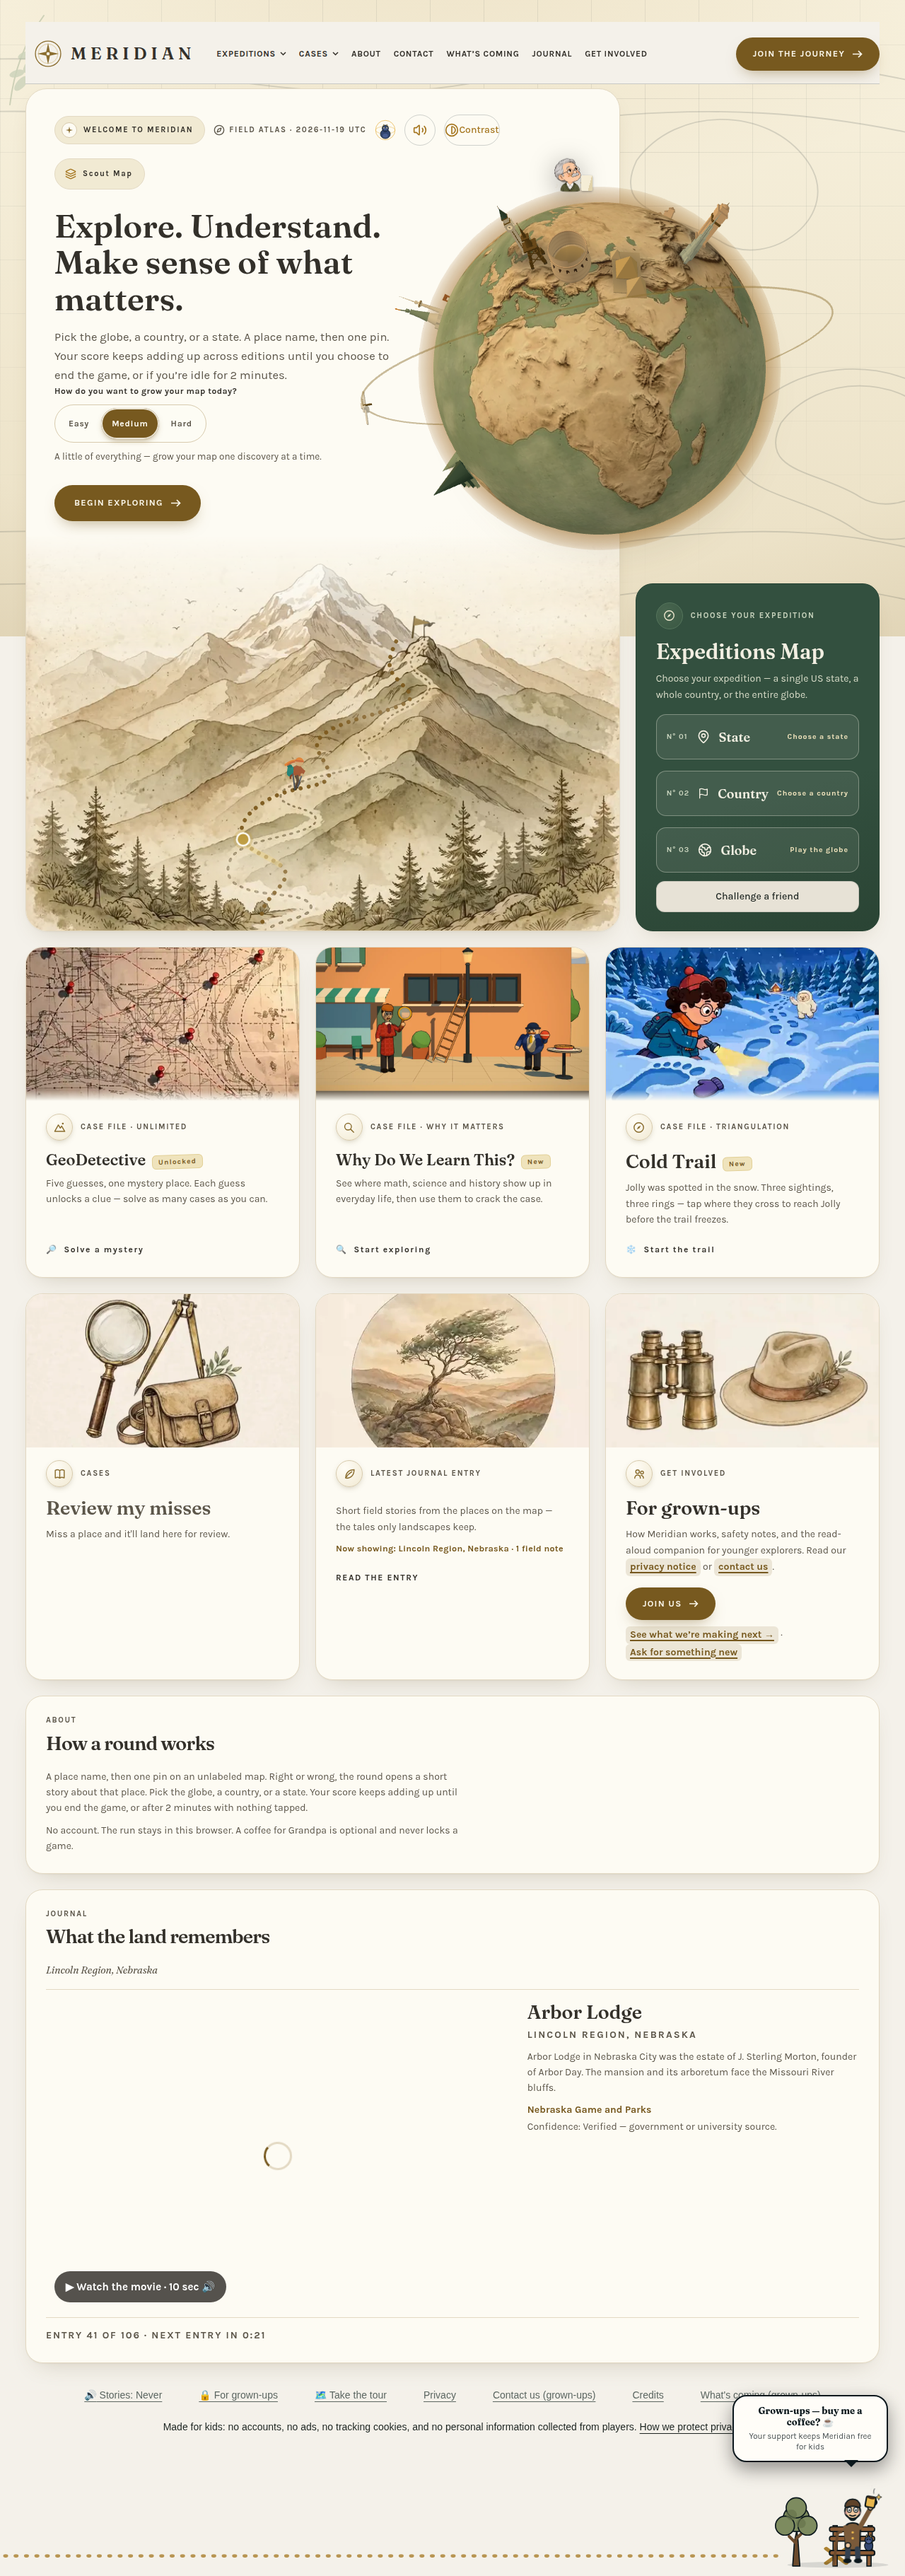
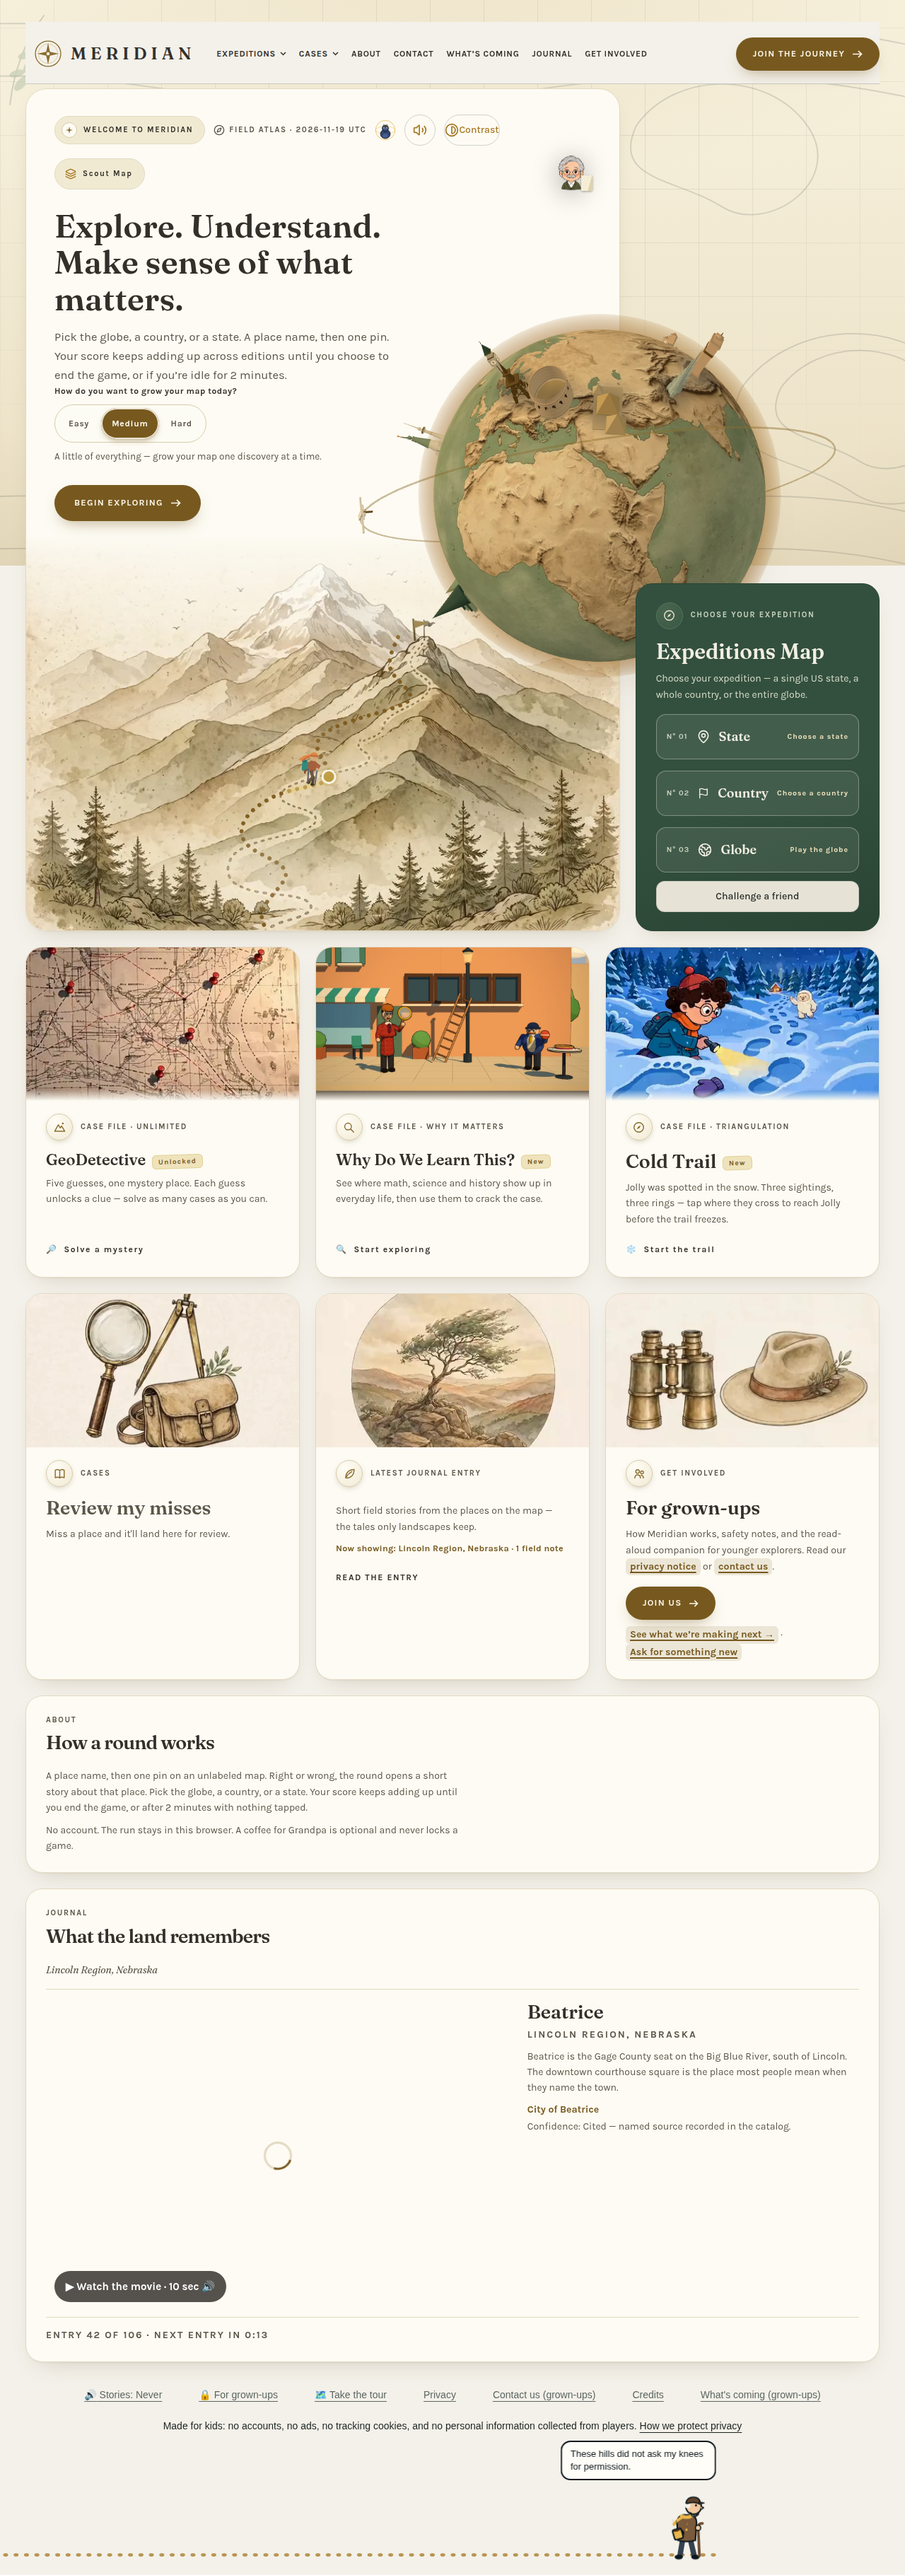
Move the desktop globe down so it clears Grandpa (addendum 10)

diff --git a/docs/mockups/landmark-globe-contract.md b/docs/mockups/landmark-globe-contract.md
@@ -110,3 +110,4 @@ Stage 2 production changes (owner rulings Nov 19 2026; layout decided by a three
 3. Desktop composition of the top section (src/components/home-v5.css) — owner ruling, Nov 19 2026 ("You need to fix desktop view"), decided by the same three-seat design pass and staged in the approved mock: with the card at content height, the rail's two components (globe zone + map card) travel as one group anchored to the hero's foot — @media (min-width: 1081px) { .home-v5 .hv5-rail { justify-content: flex-end; } }. The bento columns (2.24fr / minmax(260px, 0.92fr)), the globe zone (width: 100%; aspect-ratio: 1; margin: 0 0 -92px; its overlap onto the card unchanged) and the hero's proportions are unchanged; the card's bottom edge now shares the hero's baseline and the card sits beside the mountain scene. Measured in the approved mock at 1280px: hero 1192px tall, rail content 745px (globe zone 345px + card 492px − 92px overlap), card top at 700px in the rail, space under the card in the rail 0px (was 447px); the freed 447px sits above the globe zone, beside the hero's copy block. At 1878px: hero 1212px, card top 720px, space under the card 0px. The rule is scoped to min-width: 1081px so the <=1080px stacked layouts cannot move — re-measured identical (card 470px at 768px, 484px at 390px; copy-to-first-row gap 16px; mountain 462px / 256px, visible).
 4. Desktop globe size (src/components/home-v5.css) — owner ruling, Nov 19 2026 ("make the globe bigger and fill the void"), staged in the approved mock; supersedes item 3's globe-zone size and its "freed space above the globe" outcome (item 3's foot anchor is kept, as the guard that collects any remainder above the zone, never under the card): inside the same @media (min-width: 1081px) block, .home-v5 .hv5-globe-zone { width: 792px; flex: 0 0 auto; align-self: flex-end; } — the zone grows from the rail's 345px to 792px, sized so zone + card (492px) − the unchanged −92px overlap margin equals the hero's 1192px at the 1280px reference. The canvas is square (side = zone width), so the rendered disc grows ~205px → ~470px and the orbit ring ~290px → ~667px. The zone is wider than the rail column and right-aligns to the rail's edge: centred, its disc would cross the page's right edge at 1280px; right-aligned, the disc stays inside the page and bleeds left over the hero's empty right side. The bento columns, the hero's proportions, the card and the −92px overlap are unchanged. Measured in the approved mock at 1280px: zone 792×792px, void above the zone 0px (was 447px), space under the card 0px, card top in the rail 700px, horizontal overflow 0. At 1878px: zone 792px, the foot anchor collects the remaining 20px above the zone (hero 1212px vs 1192px of rail content), space under the card 0px, overflow 0. Scoped to min-width: 1081px; the <=1080px zone rules (220px / 200px, centred) are untouched — re-measured identical (zone 220px at 768px, 200px at 390px; card 470px / 484px; mountain 462px / 256px, visible).
 5. Colosseum restyle (the landmark model itself — in Stage 2 this lands in the production landmark models copied from this mockup): council spec, owner-adopted Nov 19 2026 after the original build read as a grey ring at page size. Scale 0.16 -> 0.25; colour stone -> sandstone; drawn-at (41.9, 13.5) -> (40.5, 15.0), widening the separation from Eiffel / Big Ben. Drum height 0.34 -> 0.46 units in warm sandstone with a strata-banded canvas texture (no drawn arches). Dark recessed arch insets as geometry: two rows of 16 arch shapes (0.062 x 0.115, colour #4a3421) standing just proud of the drum wall, all the way around. Stepped broken upper tier: three wall arcs of height 0.22 / 0.14 / 0.07 spanning 1.5 / 1.05 / 0.8 rad. Inner wall height 0.2 -> 0.3. Landmark totals after the restyle: 7,602 triangles (the Colosseum accounts for the +592 over the previous 7,010), largest single landmark still Sydney Opera House at 1,872, 51 draw calls — inside the per-landmark 5,000, total 40,000 and 60-call limits. Recognition test on the approved mock: passed 3 of 3 at full-page size (see 3.4).
+6. Desktop globe position — the mascot clearance rule (src/components/home-v5.css) — owner ruling, Nov 19 2026 ("move the globe since it is covering the mascot grandpa story teller"), staged in the approved mock. RULE: at every desktop width the globe — disc, halo and orbit ring — never covers the hero's mascot (Grandpa, the storyteller) or his speech bubble; both stay fully visible with clear space around them. This is also the council UX seat's hard line (the bleed must not enter the hero card's field where it covers hero content). Mechanism: inside the @media (min-width: 1081px) block, the globe zone's bottom margin grows from the base -92px to -272px; the map card is foot-anchored and does not move, so the zone drops 180px and the zone-to-card overlap grows by the same 180px. Nothing else moves: zone size (792px), card, hero proportions, bento ratio and the mountain are unchanged. Measured in the approved mock at 1280px: zone top 125px -> 305px; the disc clears the speech-bubble box by 30px and the avatar box by 192px; the orbit ring's true projected curve clears the bubble by 119px (the conservative bounding-circle test reads -68px and overstates the ring — the ring is an ellipse and most of its bounding circle is empty space); the fresnel halo clears the bubble by 13px. At 1878px: the disc clears the bubble by 50px and the ring curve by 138px. Rail fill after the move: rail content 1012px of the hero's 1192px — the 180px the move frees sits above the zone, beside the hero's copy block, where it reads as margin; space under the card 0px (the card's foot stays flush with the hero's foot); horizontal overflow 0 at both widths. Scoped to min-width: 1081px, so the <=1080px layouts cannot apply — verified at 390px, where the bubble box sits 740px above the zone (the small globe never reaches the mascot). Stage 2 carries the same position and the rule: any future change to the globe's size or position re-checks the mascot's boxes first.

diff --git a/docs/branch-status/feat-landmark-globe.md b/docs/branch-status/feat-landmark-globe.md
@@ -121,6 +121,17 @@ Captures: `docs/motion-verify/landmark-globe-mockup-1280px.png` (1280 x 900, ful
 
 - Post-processing and a bigger geometry budget were not needed: after the addendum-9 Colosseum restyle the scene sits at 51 draw calls and 7,602 landmark triangles against limits of 60 and 40,000.
 
+## Addendum 10 — globe moved off Grandpa (owner ruling, Nov 19 2026)
+
+- Done: staged in the mock only (production untouched). Owner's words: "move the globe since it is covering the mascot grandpa story teller." The desktop globe zone drops 180px: in the staging copy's home-v5.css, inside the @media (min-width: 1081px) block, the zone's bottom margin goes from the base -92px to -272px; the foot-anchored map card does not move, so the zone-to-card overlap grows by the same 180px. Globe size unchanged (792px zone, ~470px disc, ~667px ring).
+- Measured [tested]: Grandpa's boxes at 1280 — avatar x780-836, y218-274; bubble x612-836, y282-436. Before: disc circle overlapped the bubble box by 149px (1878: 129px). After: at 1280 the disc clears the bubble by +30px and the avatar by +192px; the orbit ring's true projected curve clears the bubble by +119px (conservative bounding-circle test reads -68px; the ring is an ellipse and that circle overstates it); the halo clears the bubble by +13px. At 1878: disc +50px vs the bubble, ring curve +138px. Zone top 125 -> 305px (1878: 145 -> 325px).
+- Rail fill after: content 1012px of hero 1192px at 1280; the freed 180px sits above the zone beside the hero copy as margin; space under the card 0px, card 492px content-height, foot flush with the hero's foot; overflow 0 at 1280 and 1878.
+- 768/390 unaffected: the change is scoped to min-width: 1081px; re-measured at 390 (zone 200px, card 484px, overflow 0, bubble box 740px above the zone).
+- Staging note: the injection harness logs one app-side page error (null innerHTML) when the production mount's children are cleared for the mockup swap; the globe mounts and renders correctly in every run. Artefact of the staging swap only — Stage 2 replaces the component properly.
+- Captures: landmark-globe-in-prod-full-1280px.png + landmark-globe-in-prod-1280px.png overwritten (full page only). Contract §3.6 item 6 carries the position + the mascot clearance rule into Stage 2.
+- Next step: owner's Stage 1 approval (including addenda 4-10) is the gate for Stage 2.
+- Ruled out: shrinking the globe back toward the 345px zone (the owner asked for a move, not a shrink); re-stretching the map card to fill the freed space (addendum 6 stands); a rightward shift (the disc already ends at the page's right edge at 1280).
+
 ## Graph
 
 - Add node: `docs/mockups/landmark-globe.html` (mockup, landmark globe) — documents the Home hero globe design.
